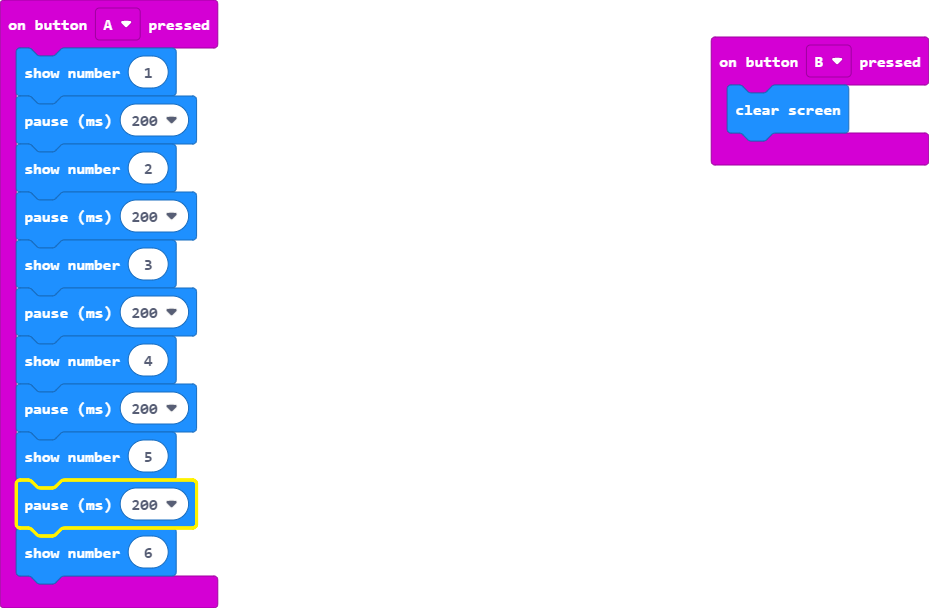
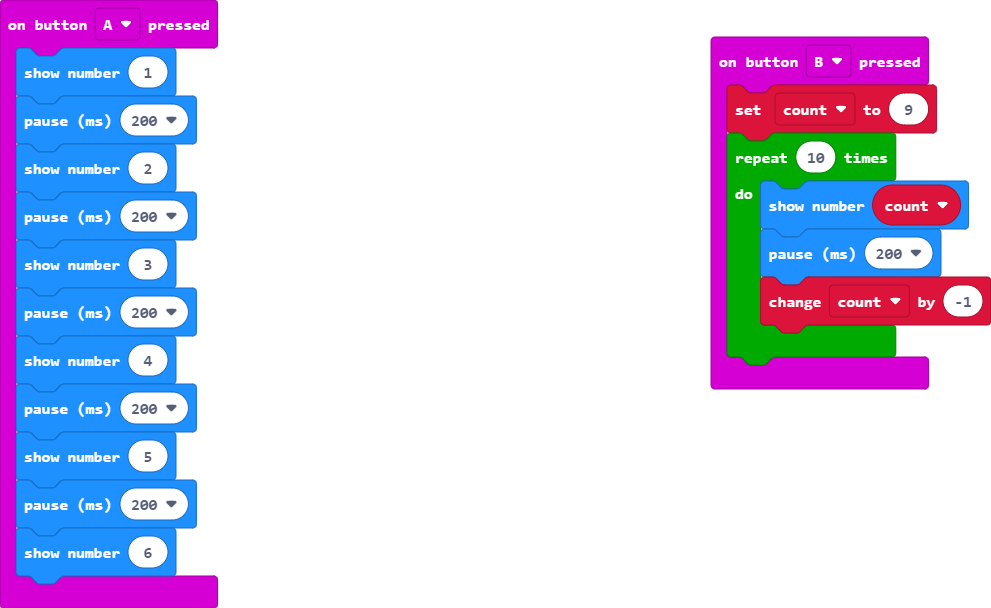
Update main.blocks, main.ts

Changed region(s): [[0.718, 0.0312, 1.0, 0.6562], [0.0, 0.0, 0.2497, 0.9688], [0.2185, 0.9375, 0.2497, 1.0]]

diff --git a/main.ts b/main.ts
@@ -1,3 +1,4 @@
+let count = 0
 input.onButtonPressed(Button.A, function () {
     basic.showNumber(1)
     basic.pause(200)
@@ -12,5 +13,10 @@ input.onButtonPressed(Button.A, function () {
     basic.showNumber(6)
 })
 input.onButtonPressed(Button.B, function () {
-    basic.clearScreen()
+    count = 9
+    for (let index = 0; index < 10; index++) {
+        basic.showNumber(count)
+        basic.pause(200)
+        count += -1
+    }
 })
